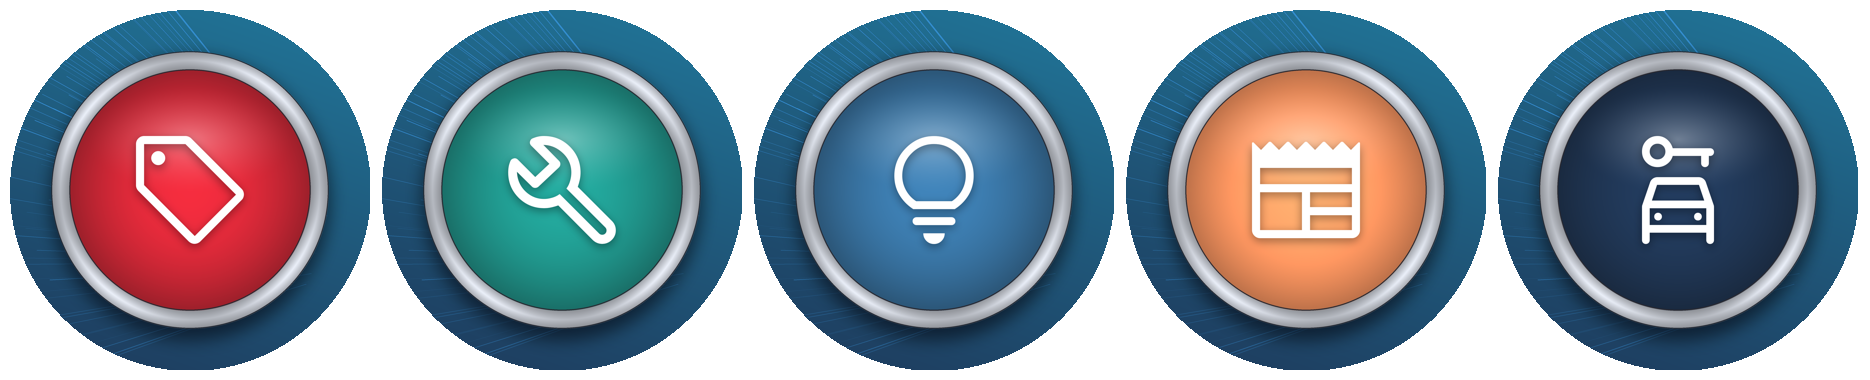
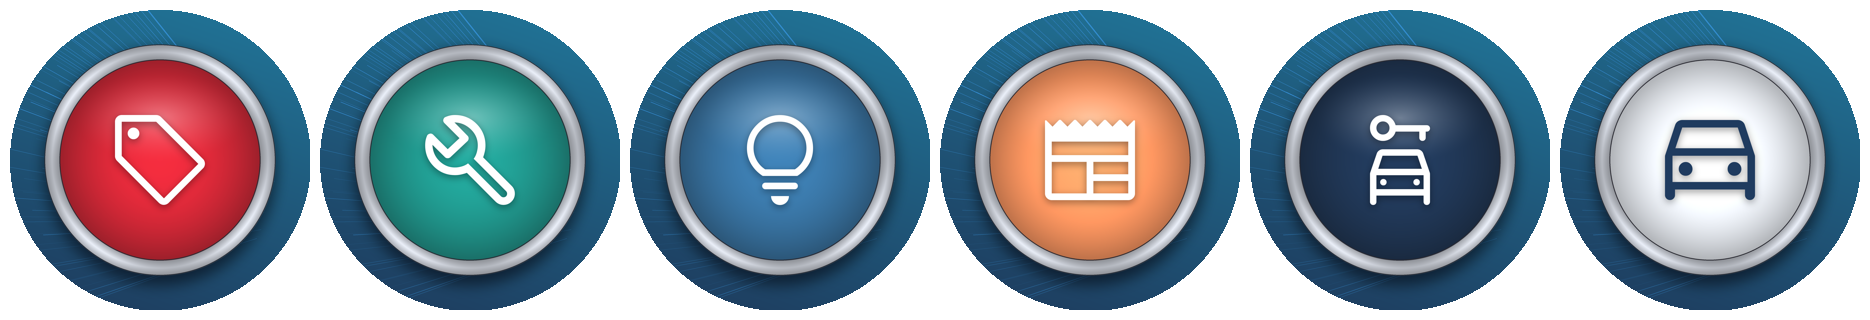
Fleet: highlight cover «أسطولنا» (pearl enamel, navy car) + spec-card trial on the Clio story; 13 fleet photos saved
Claude-Session: https://claude.ai/code/session_01JWxxZZBXcuDznNNTjM86b7

diff --git a/marketing/fleet/fleet_card.py b/marketing/fleet/fleet_card.py
@@ -1,0 +1,73 @@
+"""Fleet stories: a spec card (make, model, year, fuel, gearbox, seats, luggage) over each 1080x1920 fleet photo,
+set in the sky above the shop sign. Output 2160x3840.
+usage: python3 fleet_card.py <brand-kit dir> <out dir> [ids]"""
+import sys, os
+from PIL import Image, ImageDraw, ImageFilter, ImageFont
+HERE = os.path.dirname(os.path.abspath(__file__)); KIT = sys.argv[1]
+K = 2; W, H = 1080, 1920
+NAVY = (16, 32, 52); ORANGE = (244, 141, 87); WHITE = (255, 255, 255)
+FT = lambda n, s: ImageFont.truetype(os.path.join(KIT, 'fonts', n), round(s*K))
+OX8, OX6, KUFI = 'Oxanium-800.ttf', 'Oxanium-600.ttf', 'NotoKufiArabic-ExtraBold.ttf'
+
+# id: (make, model, year, fuel, gearbox, seats, bags)
+CARS = {
+    '05': ('RENAULT', 'Clio', '2024', 'بنزين', 'أوتوماتيك', '5 مقاعد', 'حقيبتان'),
+}
+
+
+def icon(name, px, col):
+    a = Image.open(os.path.join(HERE, 'icons', name + '.png')).split()[3]; a = a.crop(a.getbbox())
+    k = px/max(a.size); a = a.resize((round(a.width*k), round(a.height*k)), Image.LANCZOS)
+    im = Image.new('RGBA', a.size, col + (0,)); im.putalpha(a); return im
+
+
+def ink(d, t, f, rtl=False):
+    kw = dict(direction='rtl', language='ar') if rtl else {}
+    l, tp, r, b = d.textbbox((0, 0), t, font=f, anchor='ls', **kw); return -tp, b, r - l   # up, down, width (px)
+
+
+def card(cid):
+    make, model, year, fuel, gear, seats, bags = CARS[cid]
+    im = Image.open(os.path.join(HERE, 'src', cid + '.png')).convert('RGB').resize((W*K, H*K), Image.LANCZOS).convert('RGBA')
+    x0, y0, x1, y1 = 90, 196, 990, 456                         # card (units): below Instagram's story header, above the sign (~490 at the left)
+    sh = Image.new('RGBA', im.size, (0, 0, 0, 0)); ImageDraw.Draw(sh).rounded_rectangle(
+        (x0*K, (y0 + 14)*K, x1*K, (y1 + 18)*K), radius=34*K, fill=(0, 10, 25, 110))
+    im.alpha_composite(sh.filter(ImageFilter.GaussianBlur(22*K)))
+    blur = im.crop((x0*K, y0*K, x1*K, y1*K)).filter(ImageFilter.GaussianBlur(18*K))
+    m = Image.new('L', blur.size, 0); ImageDraw.Draw(m).rounded_rectangle((0, 0, blur.width - 1, blur.height - 1), radius=34*K, fill=255)
+    im.paste(blur, (x0*K, y0*K), m)
+    ov = Image.new('RGBA', im.size, (0, 0, 0, 0)); od = ImageDraw.Draw(ov)
+    od.rounded_rectangle((x0*K, y0*K, x1*K, y1*K), radius=34*K, fill=NAVY + (212,), outline=WHITE + (60,), width=2*K)
+    im.alpha_composite(ov); d = ImageDraw.Draw(im)
+    cx = (x0 + x1)/2*K
+    # make (spaced caps), model + year chip
+    fm = FT(OX6, 30); sp = '  '.join(make); u, dn, w = ink(d, sp, fm); y = (y0 + 26)*K + u
+    d.text((cx, y), sp, font=fm, fill=WHITE + (190,), anchor='ms'); y += dn
+    fM = FT(OX8, 66); uM, dM, wM = ink(d, model, fM)
+    fy = FT(OX8, 30); uy, dy, wy = ink(d, year, fy); cw, ch = wy + 36*K, uy + dy + 22*K
+    gap = 26*K; tot = wM + gap + cw; xm = cx - tot/2
+    base = y + 18*K + uM
+    d.text((xm, base), model, font=fM, fill=WHITE, anchor='ls')
+    chx = xm + wM + gap; chy = base - uM/2 - ch/2 + 6*K
+    d.rounded_rectangle((chx, chy, chx + cw, chy + ch), radius=ch/2, fill=ORANGE)
+    d.text((chx + cw/2, chy + ch/2), year, font=fy, fill=NAVY, anchor='mm')
+    y = base + dM + 20*K
+    d.line([((x0 + 70)*K, y), ((x1 - 70)*K, y)], fill=WHITE + (55,), width=2*K); y += 20*K
+    # specs, right to left
+    specs = [('local_gas_station', fuel), ('auto_transmission', gear), ('airline_seat_recline_normal', seats), ('luggage', bags)]
+    fl = FT(KUFI, 23); colw = (x1 - x0 - 80)/4*K
+    for i, (ic, lab) in enumerate(specs):
+        mx = (x1 - 40)*K - colw*(i + 0.5)
+        g = icon(ic, 38*K, ORANGE); im.alpha_composite(g, (round(mx - g.width/2), round(y)))
+        u, dn, w = ink(d, lab, fl, True); d.text((mx, y + g.height + 16*K + u), lab, font=fl, fill=WHITE, anchor='ms', direction='rtl', language='ar')
+        if i: d.line([(mx + colw/2, y + 6*K), (mx + colw/2, y + 38*K + 16*K + u + dn)], fill=WHITE + (45,), width=2*K)
+    bottom = (y + 38*K + 16*K + u + dn)/K
+    print(cid, 'card', y0, '-', y1, '| content bottom', round(bottom), '| margin', round(y1 - bottom))
+    return im.convert('RGB')
+
+
+if __name__ == '__main__':
+    out = sys.argv[2]; os.makedirs(out, exist_ok=True)
+    ids = sys.argv[3].split(',') if len(sys.argv) > 3 else list(CARS)
+    for cid in ids:
+        card(cid).save(os.path.join(out, f'fleet-{cid}.png'), optimize=True)

diff --git a/marketing/highlights/highlights.py b/marketing/highlights/highlights.py
@@ -14,6 +14,7 @@ SECTIONS = [   # file, label, colour, icon, icon colour
     ('idea', 'عندك فكرة', (46, 104, 150), 'lightbulb', (255, 255, 255)),
     ('news', 'أخبار السيارات', (244, 141, 87), 'newspaper', NAVY),
     ('services', 'من خدماتنا', (22, 44, 74), 'car_rental', (255, 255, 255)),
+    ('fleet', 'أسطولنا', (226, 230, 236), 'directions_car', NAVY),
 ]
 
 
@@ -221,7 +222,7 @@ def cover_emblem(col, icon, icol):
     d = ImageDraw.Draw(im)
     d.ellipse((cx - Ri, cy - Ri, cx + Ri, cy + Ri), outline=(40, 40, 48, 160), width=6)       # seam between bezel and enamel
     d.ellipse((cx - Ro, cy - Ro, cx + Ro, cy + Ro), outline=(30, 35, 45, 140), width=5)
-    put_icon(im, icon, (255, 255, 255), 0.30)
+    put_icon(im, icon, icol if sum(col) > 600 else (255, 255, 255), 0.30)   # a light enamel takes the navy icon
     return im.convert('RGB')
 
 

diff --git a/marketing/highlights/README.md b/marketing/highlights/README.md
@@ -16,6 +16,7 @@
 | عندك فكرة | `#2E6896` | `lightbulb` |
 | أخبار السيارات | `#F48D57` | `newspaper` |
 | من خدماتنا | كحلي `#162C4A` | `car_rental` |
+| أسطولنا | أبيض لؤلؤي `#E2E6EC` (أيقونة كحلية) | `directions_car` |
 
 ## إضافة فقرة جديدة لاحقاً
 
